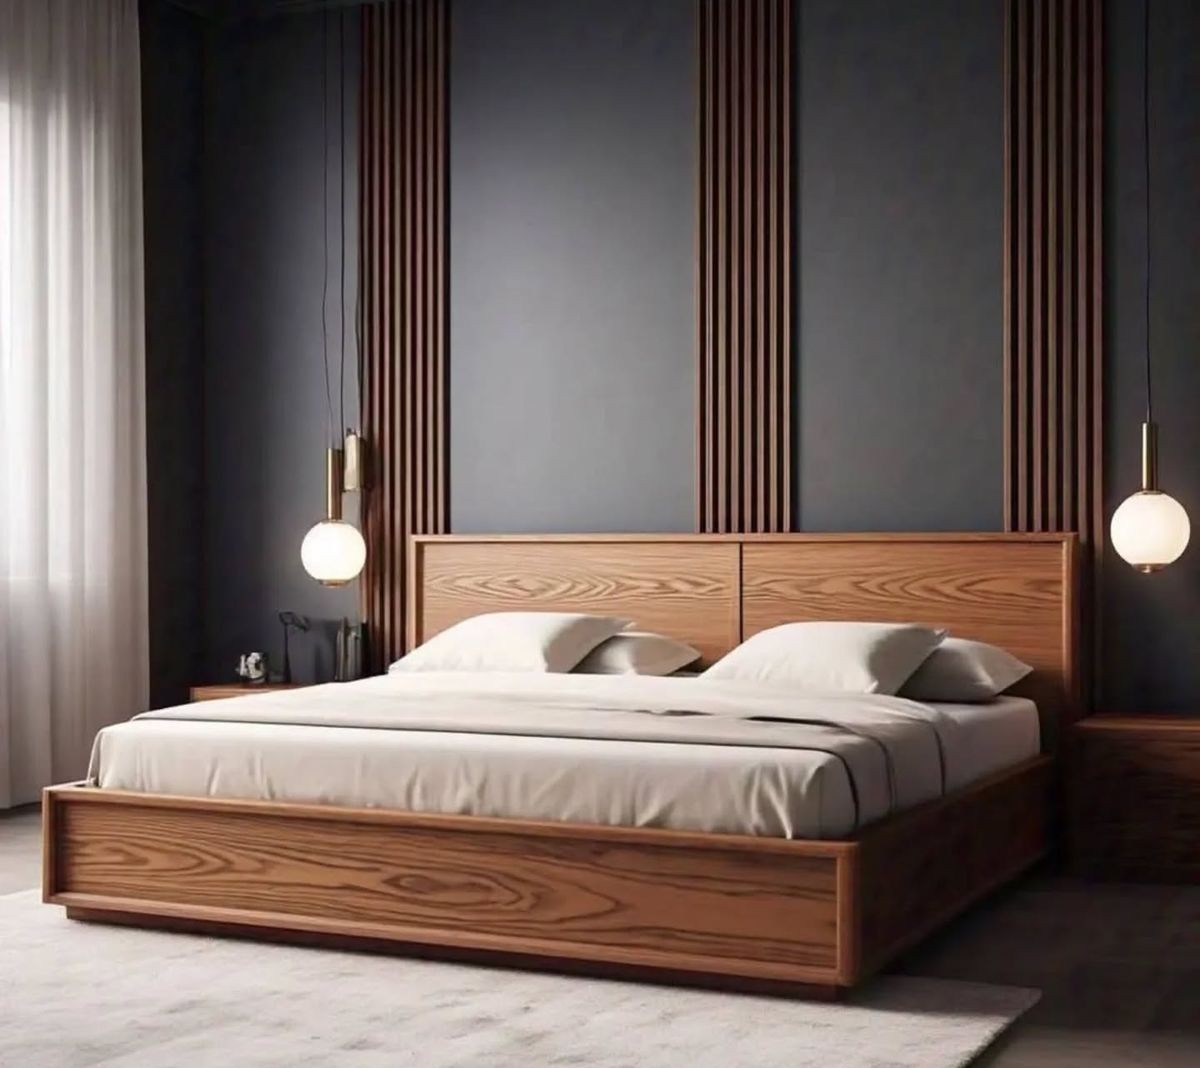
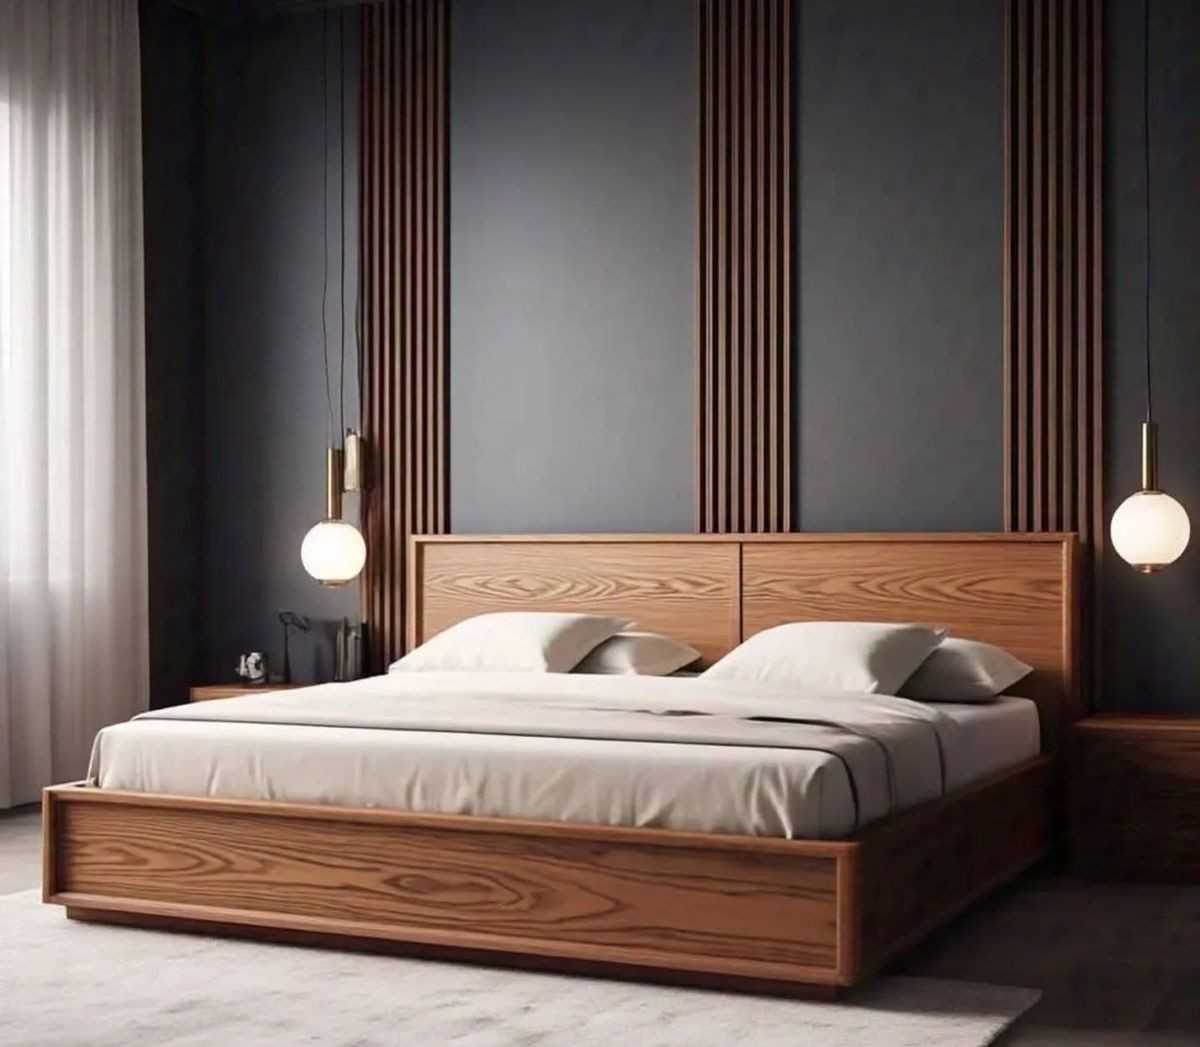
Update Customized Cot subcategory to use specific client-provided image

diff --git a/src/app/services/serviceData.ts b/src/app/services/serviceData.ts
@@ -85,7 +85,7 @@ export const serviceConfig: Record<string, ServiceData> = {
         name: "CUSTOMIZED COT", 
         type: "image",
         desc: "LUXURIOUS BED FRAMES",
-        img: "/images/service_cot.jpeg"
+        img: "/images/sub_customized cot.jpeg"
       },
     ],
   },